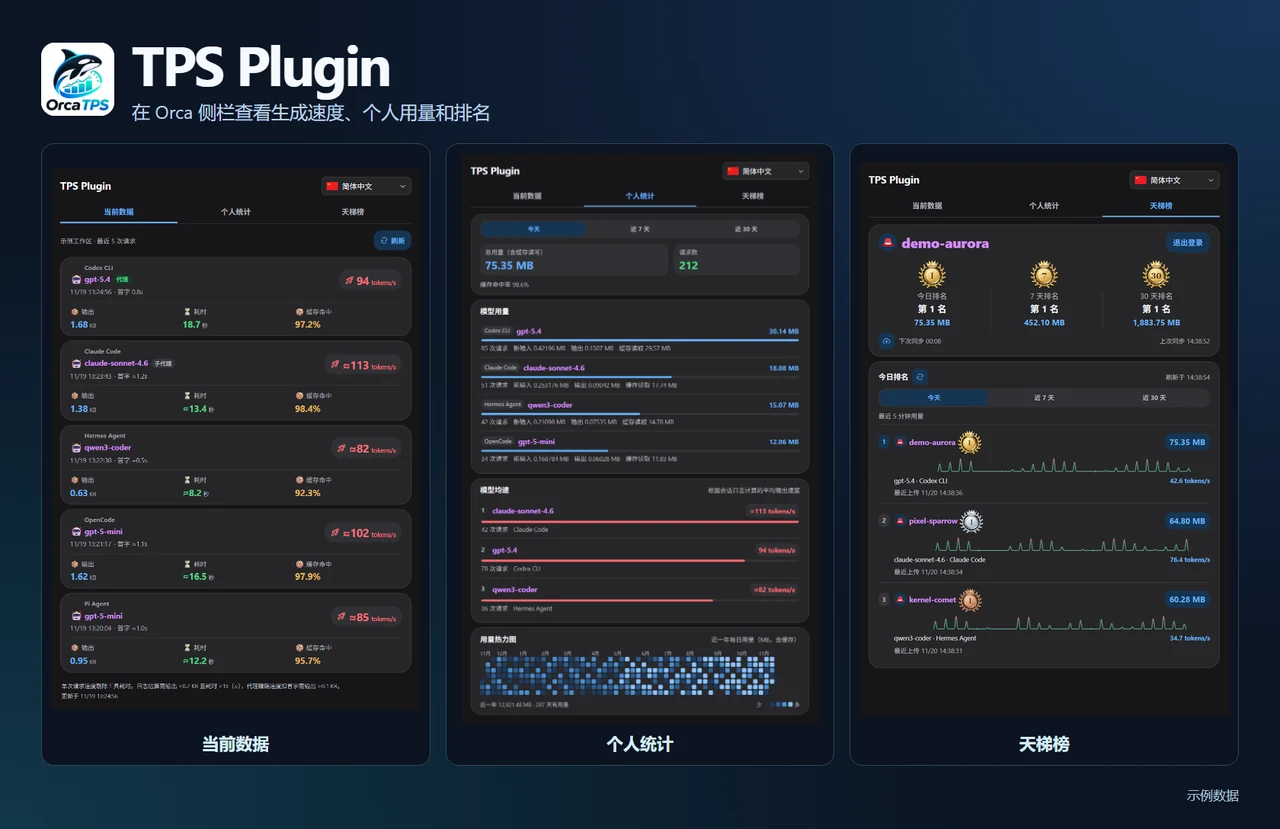
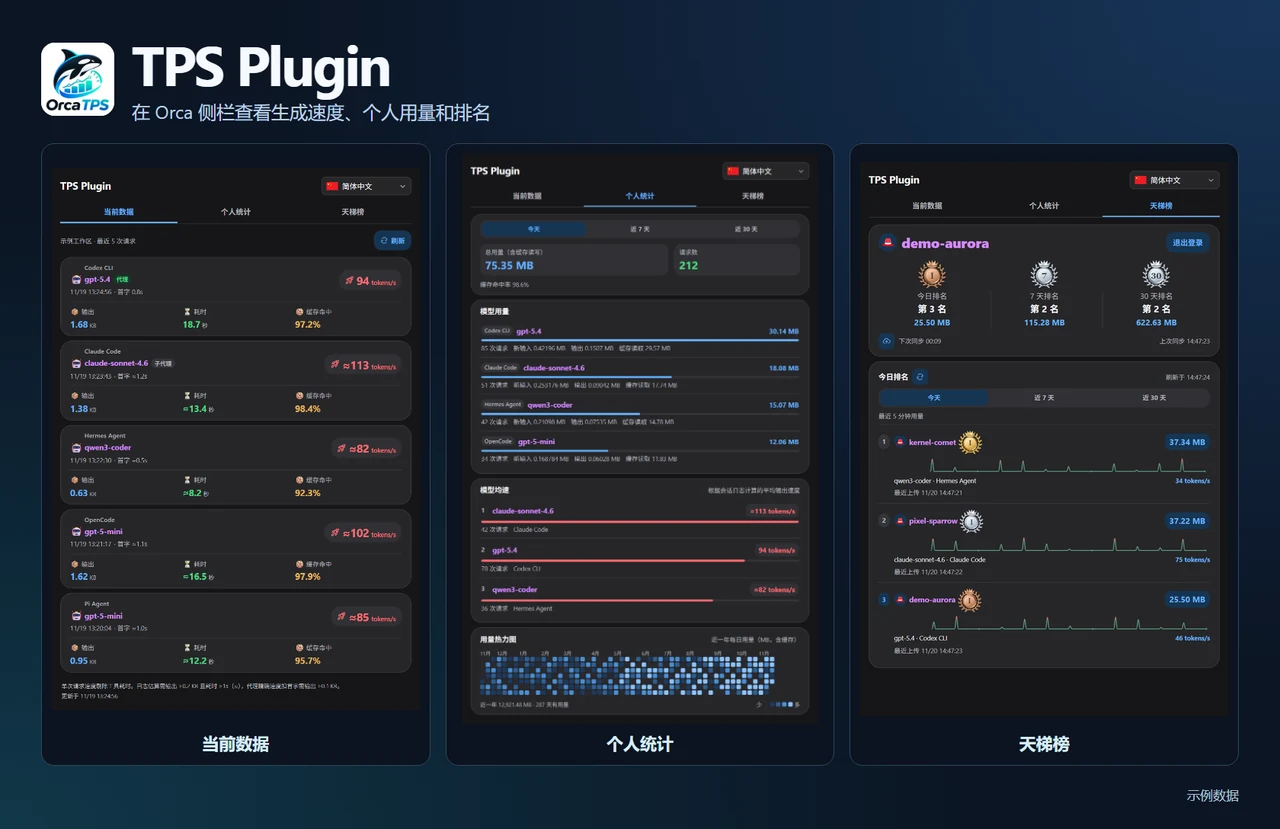
feat: shade the area under leaderboard usage curves

diff --git a/src/panel.html b/src/panel.html
@@ -1530,15 +1530,30 @@
         });
       }
 
-      function setUsageGradient(ctx, baseline) {
+      function paintUsagePath(ctx, line, baseline, firstX, lastX) {
         const colors = window.getComputedStyle(document.documentElement);
         const low = colors.getPropertyValue('--usage-wave-low').trim();
         const high = colors.getPropertyValue('--speed').trim();
+
+        const area = new Path2D(line);
+        area.lineTo(lastX, baseline);
+        area.lineTo(firstX, baseline);
+        area.closePath();
+        const shade = ctx.createLinearGradient(0, baseline, 0, chartPadding);
+        shade.addColorStop(0, 'transparent');
+        shade.addColorStop(1, low);
+        ctx.save();
+        ctx.globalAlpha = 0.24;
+        ctx.fillStyle = shade;
+        ctx.fill(area);
+        ctx.restore();
+
         const gradient = ctx.createLinearGradient(0, baseline, 0, chartPadding);
         gradient.addColorStop(0, low);
         gradient.addColorStop(0.58, low);
         gradient.addColorStop(1, high);
         ctx.strokeStyle = ctx.fillStyle = gradient;
+        ctx.stroke(line);
       }
 
       function pulseX(point, left, width) {
@@ -1569,7 +1584,6 @@
           ctx.setTransform(pixelWidth / width, 0, 0, pixelHeight / height, 0, 0);
           ctx.clearRect(0, 0, width, height);
           const baseline = height - chartPadding;
-          setUsageGradient(ctx, baseline);
           ctx.lineWidth = 1.4;
           ctx.lineCap = ctx.lineJoin = 'round';
           const halfWidth = Math.min(chartPadding - 0.75, (width - 2 * chartPadding) / 70);
@@ -1577,18 +1591,21 @@
           const progress = animate ? Math.min(1, (time - startedAt) / 200) : 1;
           const riseAt = point => point.submittedAt > animateAfter ? 1 - (1 - progress) ** 2 : 1;
           const [first] = points;
-          ctx.beginPath();
-          ctx.moveTo(pulseX(first, left, width) - (first.deltaTokens > 0 ? halfWidth : 0), baseline);
+          const last = points.at(-1);
+          const start = pulseX(first, left, width) - (first.deltaTokens > 0 ? halfWidth : 0);
+          const end = pulseX(last, left, width) + (last.deltaTokens > 0 ? halfWidth : 0);
+          const line = new Path2D();
+          line.moveTo(start, baseline);
           for (const point of points) {
             const x = pulseX(point, left, width);
             if (point.deltaTokens > 0) {
               const peak = baseline - Math.max(1.5, (baseline - chartPadding) * point.deltaTokens / maximum) * riseAt(point);
-              ctx.lineTo(x - halfWidth, baseline);
-              ctx.bezierCurveTo(x - halfWidth * 0.54, baseline, x - halfWidth * 0.38, peak, x, peak);
-              ctx.bezierCurveTo(x + halfWidth * 0.38, peak, x + halfWidth * 0.54, baseline, x + halfWidth, baseline);
-            } else ctx.lineTo(x, baseline);
+              line.lineTo(x - halfWidth, baseline);
+              line.bezierCurveTo(x - halfWidth * 0.54, baseline, x - halfWidth * 0.38, peak, x, peak);
+              line.bezierCurveTo(x + halfWidth * 0.38, peak, x + halfWidth * 0.54, baseline, x + halfWidth, baseline);
+            } else line.lineTo(x, baseline);
           }
-          ctx.stroke();
+          paintUsagePath(ctx, line, baseline, start, end);
           for (const point of points) {
             if (point.deltaTokens > 0) continue;
             ctx.beginPath();
@@ -1656,12 +1673,11 @@
             const ctx = chart.getContext('2d');
             if (!ctx) return;
             ctx.clearRect(0, 0, chart.width, chart.height);
-            setUsageGradient(ctx, chart.height - chartPadding);
             ctx.lineWidth = 2;
-            ctx.beginPath();
-            ctx.moveTo(x(points[0]), y(points[0]));
-            for (const point of points.slice(1)) ctx.lineTo(x(point), y(point));
-            ctx.stroke();
+            const line = new Path2D();
+            line.moveTo(x(points[0]), y(points[0]));
+            for (const point of points.slice(1)) line.lineTo(x(point), y(point));
+            paintUsagePath(ctx, line, chart.height - chartPadding, x(points[0]), x(latestPoint));
             for (const point of points) {
               ctx.beginPath();
               ctx.arc(x(point), y(point), 3, 0, Math.PI * 2);

diff --git a/docs/superpowers/specs/2026-11-20-leaderboard-five-minute-stats-design.md b/docs/superpowers/specs/2026-11-20-leaderboard-five-minute-stats-design.md
@@ -55,7 +55,7 @@
 | 断线恢复 | 读取服务器此刻的快照，替换本地数据。 |
 | 离开榜单 | 暂停看榜的自动拉取。 |
 
-今日榜用一条心电图式的细线连接最近 5 分钟的提交记录。每笔记录在实际提交时间画一个平滑的波峰，峰高表示这笔的新增 Token。零值画成基线上的小点，两笔提交之间由平线连接。持续查看时，新峰出现时跳一次，首次打开或重连时直接绘出当前记录。近 7 天和近 30 天榜使用 `daily=1`，每行额外返回 `daily`，由已有的每日榜单成绩组成，格式为 `{ day, tokens }`。日期按北京时间划分，窗口包含今天。插件把缺记录的日期补为 0，按日期连续绘制该账号的每日累计用量。三个周期的图表底色透明。日曲线响应只带最近一笔提交的短期数据，供卡片显示速度、模型和 CLI。
+今日榜用一条心电图式的细线连接最近 5 分钟的提交记录。每笔记录在实际提交时间画一个平滑的波峰，峰高表示这笔的新增 Token。零值画成基线上的小点，两笔提交之间由平线连接。持续查看时，新峰出现时跳一次，首次打开或重连时直接绘出当前记录。近 7 天和近 30 天榜使用 `daily=1`，每行额外返回 `daily`，由已有的每日榜单成绩组成，格式为 `{ day, tokens }`。日期按北京时间划分，窗口包含今天。插件把缺记录的日期补为 0，按日期连续绘制该账号的每日累计用量。三个周期的用量线下方填充淡绿色，越靠近零线越透明。日曲线响应只带最近一笔提交的短期数据，供卡片显示速度、模型和 CLI。
 
 三种用量图按每张图的纵轴从绿色渐变到红色，绿色表示该图中较低的用量。
 

diff --git a/README.md b/README.md
@@ -55,7 +55,7 @@ Open **TPS Plugin** in Orca’s right sidebar to switch between **Current Data**
 
 - Browse today’s, 7-day, and 30-day rankings. Entries show GitHub avatars, and the top three get gold, silver, and bronze medals.
 - The top 100 entries show a five-minute waveform with one peak per upload on Today. The 7-day and 30-day charts connect every Beijing calendar day, with zero usage on days without records. Entries also show the latest average generation speed, most-used model and CLI, and last upload time. The leaderboard refreshes every 10 seconds while open.
-- The charts have transparent backgrounds. Lower usage is green and higher usage transitions to red.
+- A light green fill fades to transparent below each usage line. Lower usage is green and higher usage transitions to red.
 - Sign in with GitHub to participate. The leaderboard combines usage across installations linked to the same account. The plugin fetches avatars directly from GitHub and shows a built-in red hat avatar until one loads. Missing avatars are retried after the next sync, and a loaded avatar is reused everywhere it appears.
 - While signed in, the plugin attempts to sync every 10 seconds. Manual sync shares the same interval. The account card shows the countdown, the last successful sync, and any recent error.
 
